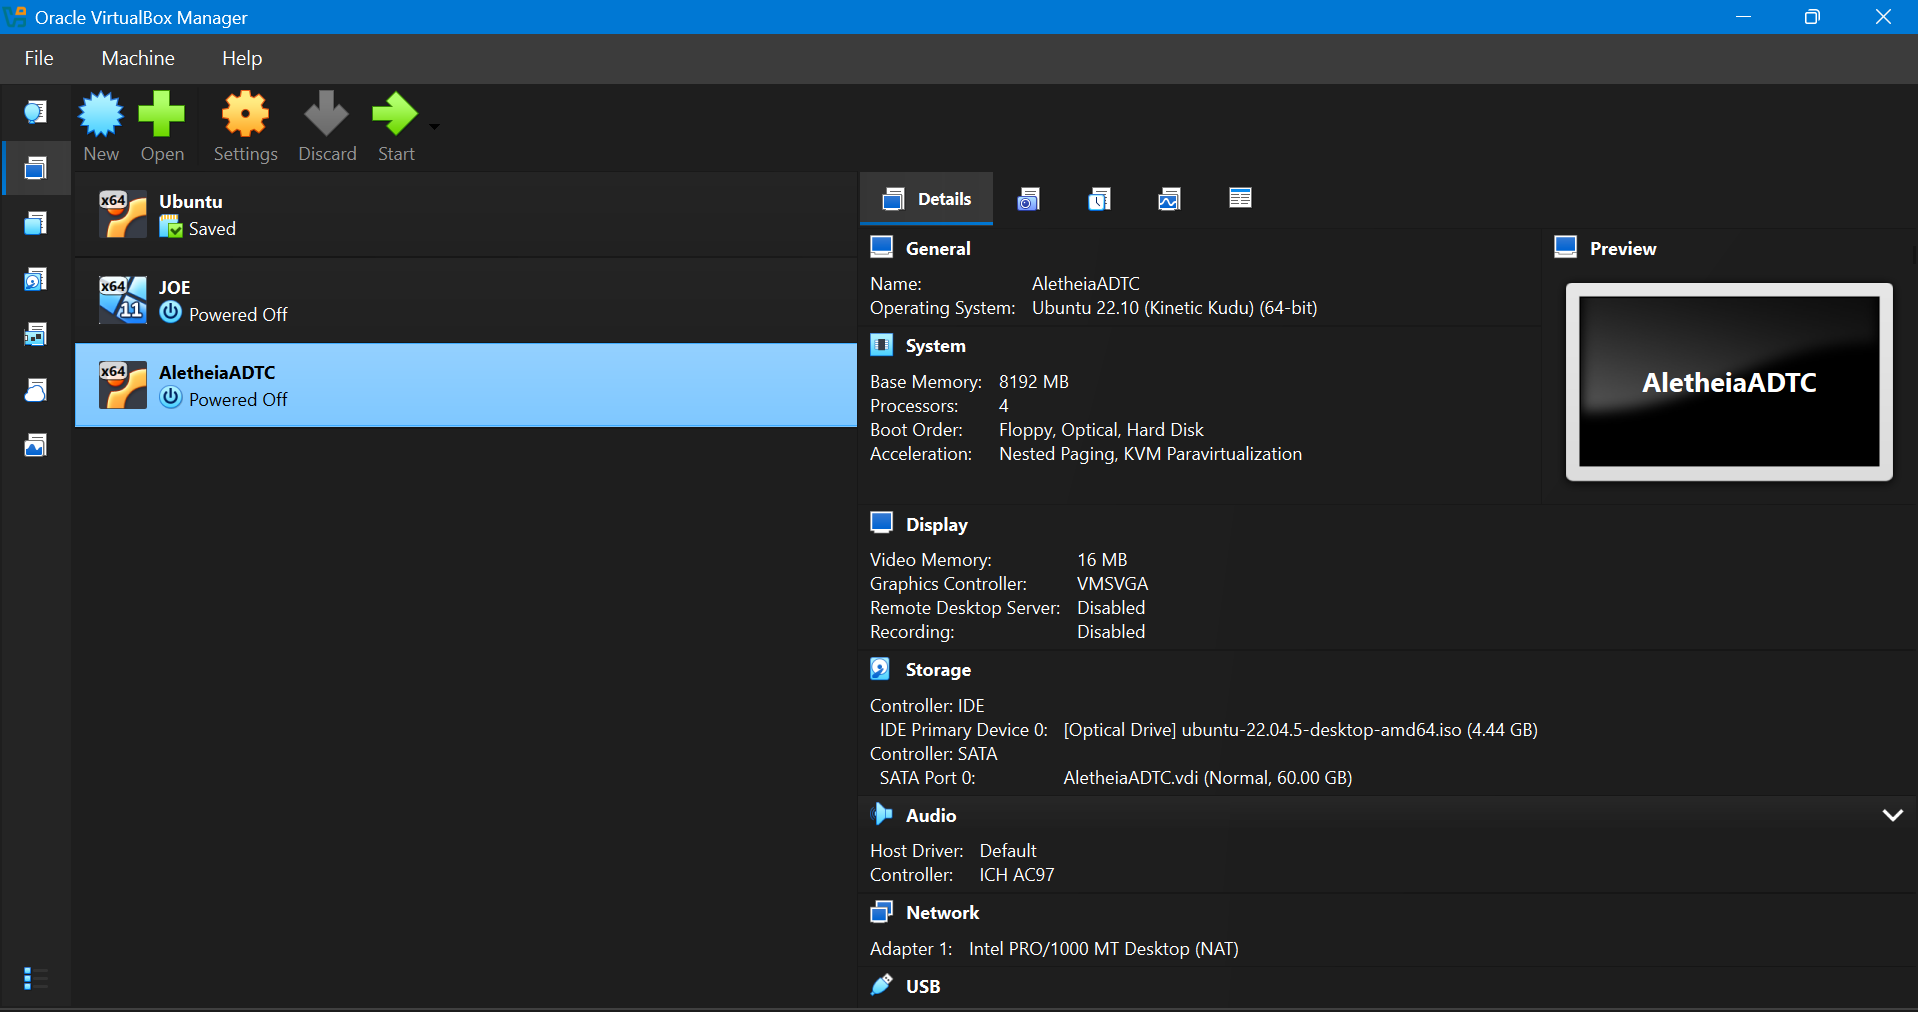
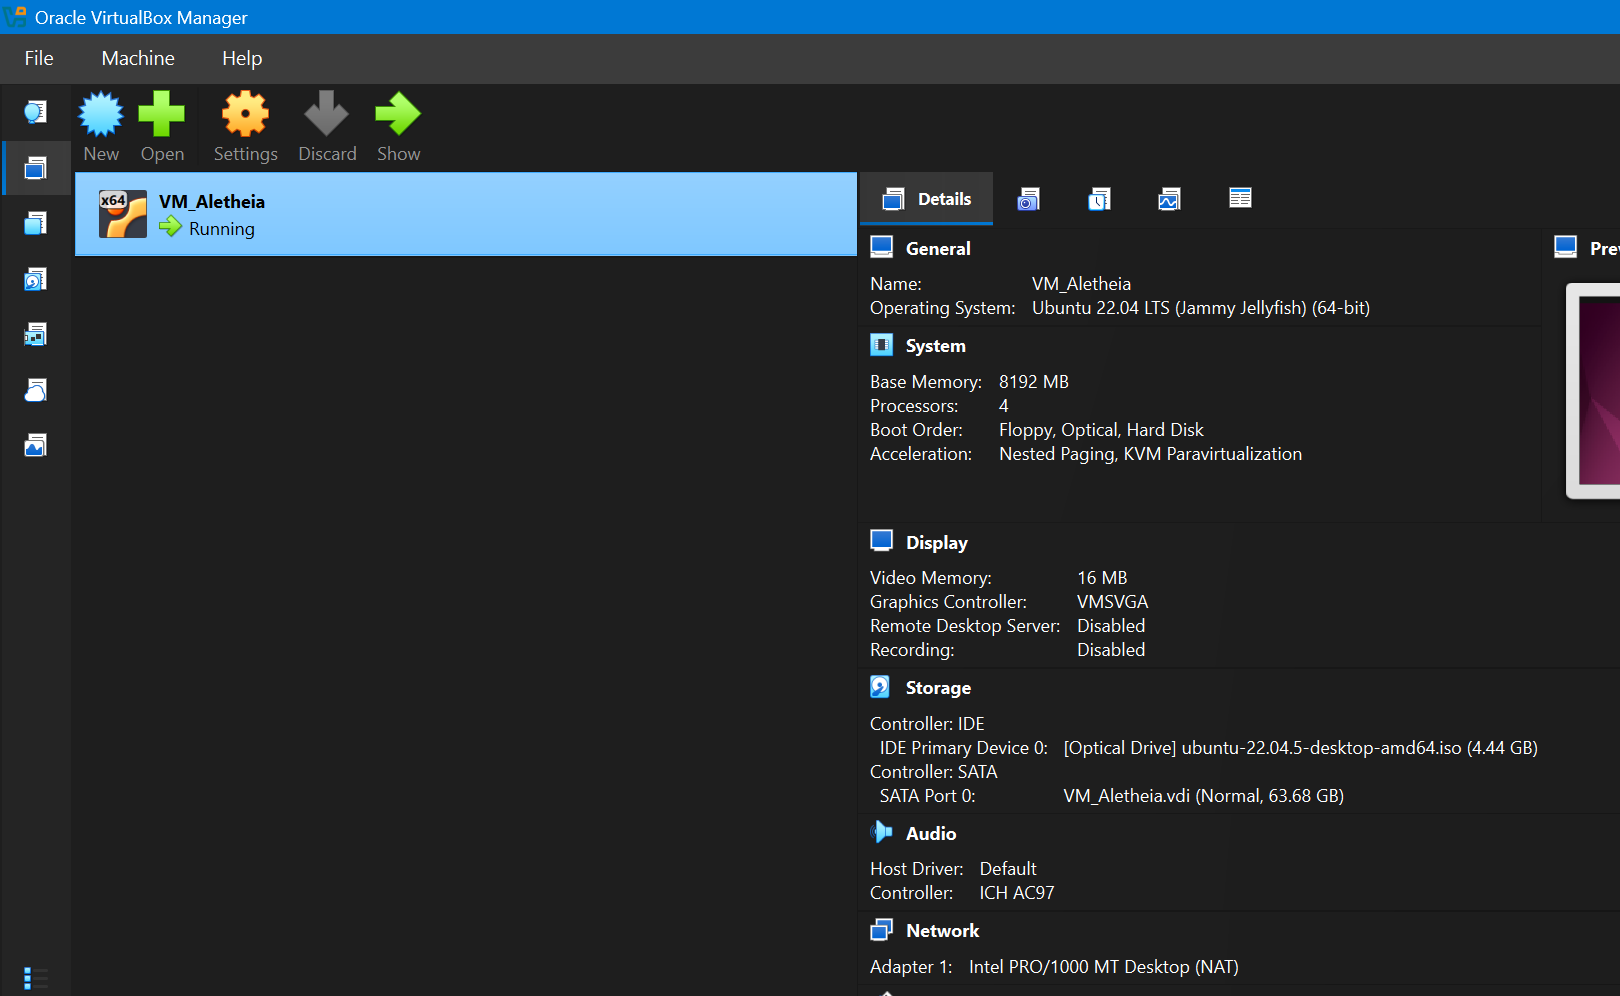
updates

Changed region(s): [[0.0, 0.0, 1.0, 0.5291], [0.0, 0.498, 1.0, 1.0], [0.0, 0.4357, 0.0309, 0.4669]]

diff --git a/docs/VM_SETUP_GUIDE.md b/docs/VM_SETUP_GUIDE.md
@@ -168,21 +168,38 @@ ls -lh ~/Aletheia/models/aletheia_q4km.gguf
 > ℹ️ gdown may show `1.93 G` while Google Drive shows `1.8 GB` — this
 > is normal. They are the same file in different units (GiB vs GB).
 
-### Step 3 — Run the install script
+### Step 3 — Set up the Python 3.11 virtual environment
+
+This is the recommended approach — everything runs inside an isolated
+venv, avoiding all system Python conflicts including the `apt_pkg` error.
 
 ```bash
 cd ~/Aletheia
-bash install.sh
+bash setup_venv.sh
 ```
+
+This single script:
+- Creates a Python 3.11 venv at `~/Aletheia/venv/`
+- Installs all Python packages inside the venv (gradio, rich, gdown, Pillow, etc.)
+- Builds llama.cpp for CPU inference
+- Writes the inference config file
+- Adds llama.cpp binaries to your PATH permanently
 
 **Expected output:**
 ```
-[ 1/5 ] Installing system dependencies... ✅
-[ 2/5 ] Installing Python packages...    ✅
-[ 3/5 ] Building llama.cpp (~3–5 min)... ✅
-[ 4/5 ] Writing configuration...         ✅
-[ 5/5 ] Checking model... aletheia_q4km.gguf (1.8G) ✅
+[ 1/5 ] Checking Python 3.11... Python 3.11.x ✅
+[ 2/5 ] Creating virtual environment... ✅
+[ 3/5 ] Activating venv and upgrading pip... ✅
+[ 4/5 ] Installing Python dependencies... ✅
+[ 5/5 ] Building llama.cpp (~3–5 min)... ✅
+Config written ✅
 ```
+
+> ⚠️ **After setup, always activate the venv before running anything:**
+> ```bash
+> source ~/Aletheia/venv/bin/activate
+> ```
+> You will see `(venv)` appear at the start of your prompt when active.
 
 ---
 